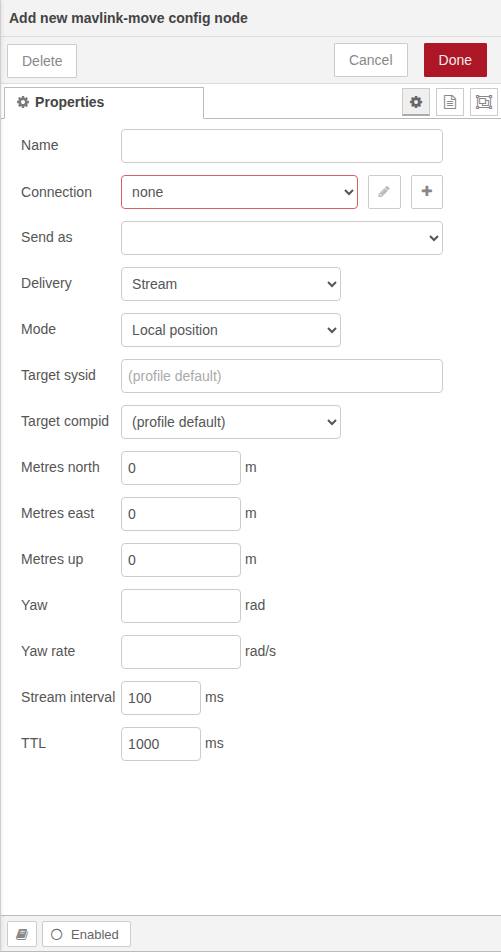
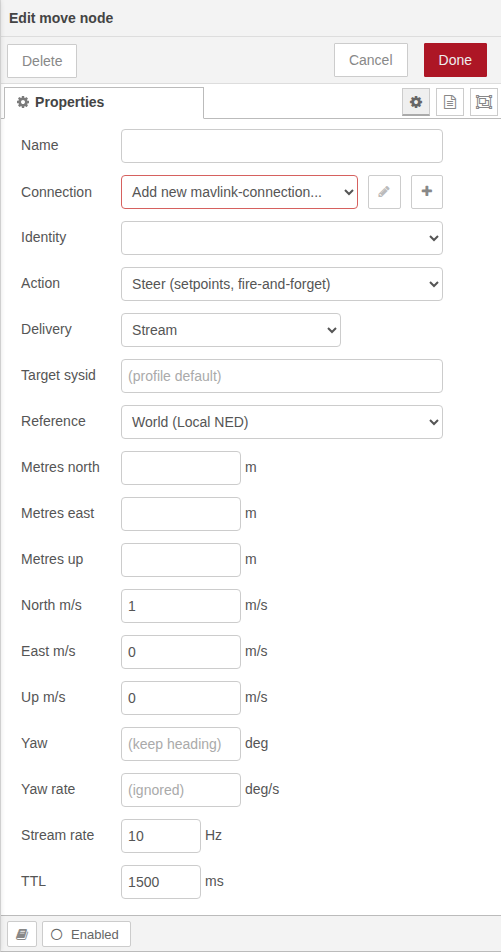
docs: refresh Move editor screenshots for the Action surface
Recapture 08-move (Go to / Build) and 08-move-stream (Steer / Stream) from
a live Node-RED 4 tray via RED.editor.edit, and update the README labels.

diff --git a/docs/screenshots/README.md b/docs/screenshots/README.md
@@ -13,8 +13,8 @@ Captured from a live Node-RED 4 editor with `node-red-contrib-mavlink` installed
 | `05-out.png` | `mavlink-out` |
 | `06-build.png` | `mavlink-build` |
 | `07-command.png` | `mavlink-command` |
-| `08-move.png` | `mavlink-move` (local position / build) |
-| `08-move-stream.png` | `mavlink-move` (stream delivery) |
+| `08-move.png` | `mavlink-move` (Go to / Build) |
+| `08-move-stream.png` | `mavlink-move` (Steer / Stream) |
 | `09-param.png` | `mavlink-param` |
 | `10-payload.png` | `mavlink-payload` (camera) |
 | `10-payload-gimbal.png` | `mavlink-payload` (gimbal topic) |
